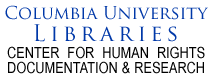
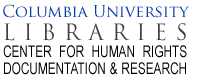
chrdr stuffs

diff --git a/app/assets/stylesheets/hrwa.css b/app/assets/stylesheets/hrwa.css
@@ -68,9 +68,9 @@ body { padding-top:60px; color:#808080; background:#eef; background-image: url('
 .hero-border { border:1px solid #ccd; padding-right:-1px; padding-left:-1px; }
 #advanced_options_container .hero-border { border-color:#000; }
 #inner-headline-outer { border-bottom:1px solid #888; background:rgba(23,71,133,0.5); background-image: url('./map-dark-150.png'); background-attachment:absolute; background-repeat: repeat-x; background-position:center; background-size: auto 100%; padding:1.7em 10px 0.3em 10px; margin-top:-2em; margin-left:-10px; margin-right:-10px; margin-bottom:0; }
-#inner-headline-outer #header-pic { border:1px solid #444; padding:3px; }
+#inner-headline-outer #header-pic { border-color:#bbb; border:1px solid rgba(255,255,255,.4); padding:3px; }
 #headlineCarousel, #header-pic { overflow:hidden; height:80px; text-align:left; }
-#header-pic div.item, #headlineCarousel .carousel-inner .item { padding:0 3px; background:rgba(255,255,255,.3) url('./cul-chrdr-212x80.png') no-repeat center center; min-height:80px; }
+#header-pic div.item, #headlineCarousel .carousel-inner .item { padding:0 3px; background:rgba(255,255,255,.1) url('./cul-chrdr-212x80.png') no-repeat center center; min-height:80px; }
 #header-pic div.item img, #headlineCarousel .carousel-inner .item img { max-height:100%; }
 #headlineCarousel .carousel-inner .item img { float:left;margin-left:auto; margin-right:auto; }
 #inner-headline { margin-bottom:1em; padding:.5em 0; }
